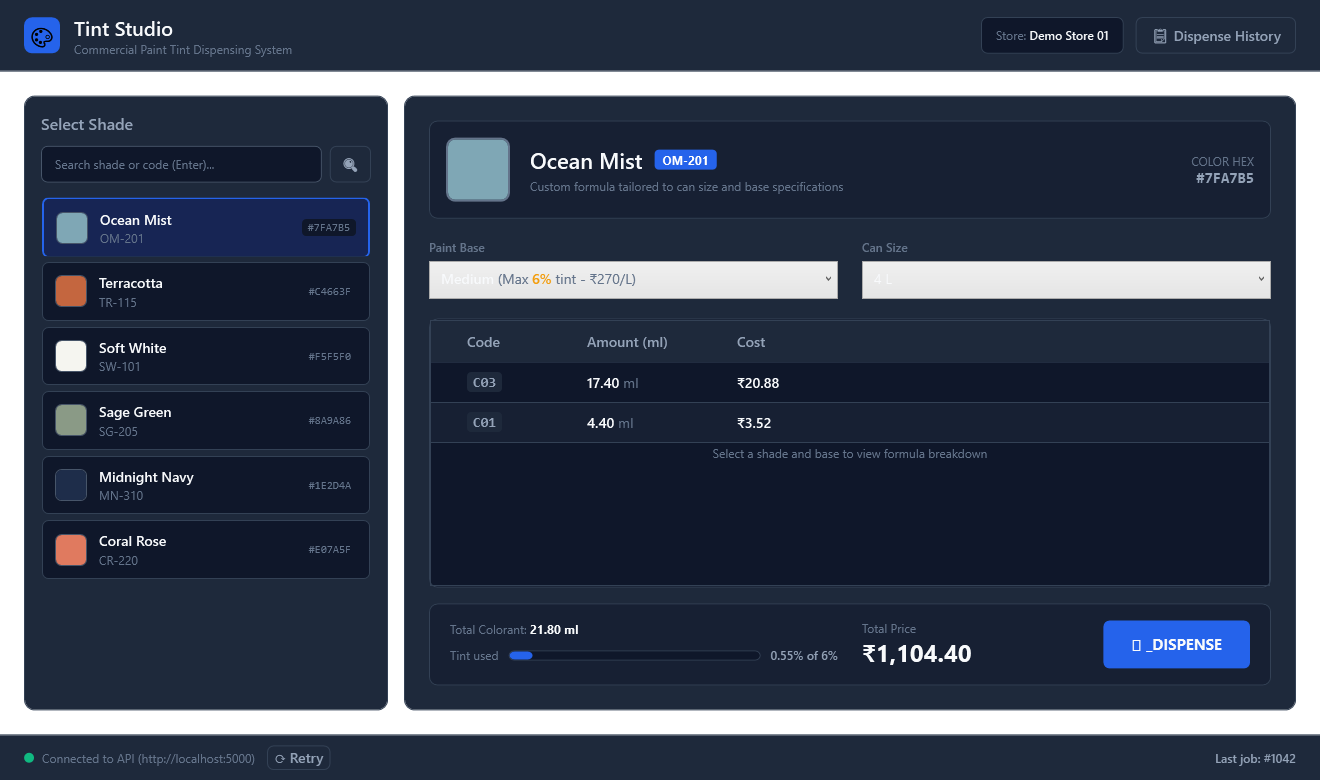
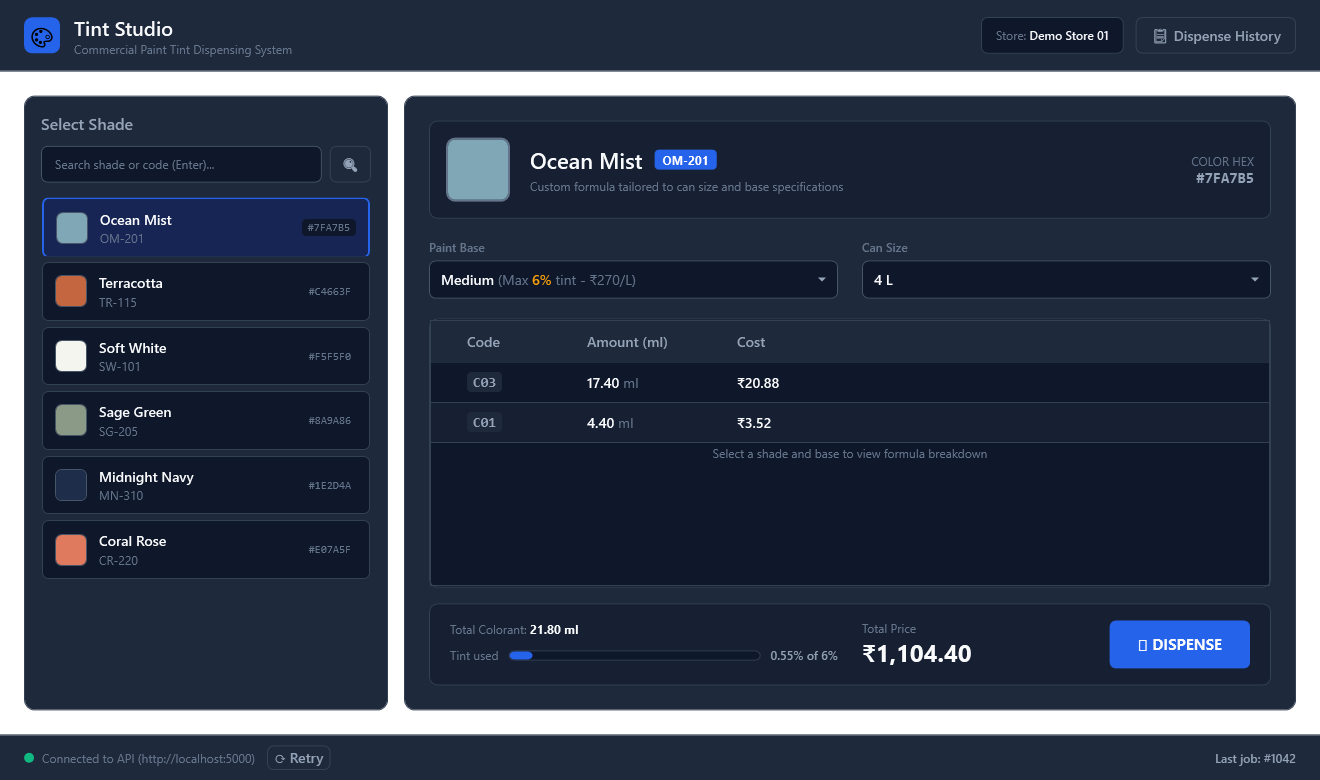
fix(wpf): dark theme ComboBox popup readability and remove leading underscore from DISPENSE button

Changed region(s): [[0.3106, 0.3077, 0.9629, 0.4], [0.8386, 0.8, 0.8697, 0.8615]]

diff --git a/src/PaintTint.Wpf/Styles/Theme.xaml b/src/PaintTint.Wpf/Styles/Theme.xaml
@@ -130,16 +130,145 @@
         </Setter>
     </Style>
 
+    <!-- ComboBox Item Style -->
+    <Style x:Key="ModernComboBoxItemStyle" TargetType="ComboBoxItem">
+        <Setter Property="FontFamily" Value="{StaticResource AppFontFamily}" />
+        <Setter Property="FontSize" Value="{StaticResource FontSizeRegular}" />
+        <Setter Property="Foreground" Value="{StaticResource TextPrimaryBrush}" />
+        <Setter Property="Background" Value="Transparent" />
+        <Setter Property="Padding" Value="12,9" />
+        <Setter Property="Cursor" Value="Hand" />
+        <Setter Property="Template">
+            <Setter.Value>
+                <ControlTemplate TargetType="ComboBoxItem">
+                    <Border x:Name="itemBorder"
+                            Background="{TemplateBinding Background}"
+                            BorderThickness="0"
+                            CornerRadius="4"
+                            Padding="{TemplateBinding Padding}"
+                            Margin="2,1">
+                        <ContentPresenter TextElement.Foreground="{TemplateBinding Foreground}" />
+                    </Border>
+                    <ControlTemplate.Triggers>
+                        <Trigger Property="IsMouseOver" Value="True">
+                            <Setter TargetName="itemBorder" Property="Background" Value="{StaticResource ButtonHoverBackgroundBrush}" />
+                            <Setter Property="Foreground" Value="{StaticResource TextPrimaryBrush}" />
+                        </Trigger>
+                        <Trigger Property="IsSelected" Value="True">
+                            <Setter TargetName="itemBorder" Property="Background" Value="{StaticResource ItemSelectedBackgroundBrush}" />
+                            <Setter Property="Foreground" Value="{StaticResource TextPrimaryBrush}" />
+                        </Trigger>
+                        <Trigger Property="IsEnabled" Value="False">
+                            <Setter Property="Foreground" Value="{StaticResource TextDisabledBrush}" />
+                        </Trigger>
+                    </ControlTemplate.Triggers>
+                </ControlTemplate>
+            </Setter.Value>
+        </Setter>
+    </Style>
+
+    <Style TargetType="ComboBoxItem" BasedOn="{StaticResource ModernComboBoxItemStyle}" />
+
+    <!-- ComboBox Toggle Button Template -->
+    <ControlTemplate x:Key="ComboBoxToggleButtonTemplate" TargetType="ToggleButton">
+        <Border x:Name="border"
+                Background="{TemplateBinding Background}"
+                BorderBrush="{TemplateBinding BorderBrush}"
+                BorderThickness="{TemplateBinding BorderThickness}"
+                CornerRadius="{StaticResource ControlCornerRadius}">
+            <Grid HorizontalAlignment="Right" Width="30">
+                <Path x:Name="arrow"
+                      Data="M 0 0 L 4 4 L 8 0 Z"
+                      Fill="{StaticResource TextSecondaryBrush}"
+                      HorizontalAlignment="Center"
+                      VerticalAlignment="Center"/>
+            </Grid>
+        </Border>
+        <ControlTemplate.Triggers>
+            <Trigger Property="IsMouseOver" Value="True">
+                <Setter TargetName="border" Property="BorderBrush" Value="{StaticResource CardHoverBorderBrush}"/>
+                <Setter TargetName="arrow" Property="Fill" Value="{StaticResource TextPrimaryBrush}"/>
+            </Trigger>
+            <Trigger Property="IsChecked" Value="True">
+                <Setter TargetName="border" Property="BorderBrush" Value="{StaticResource PrimaryAccentBrush}"/>
+                <Setter TargetName="arrow" Property="Fill" Value="{StaticResource PrimaryAccentBrush}"/>
+            </Trigger>
+            <Trigger Property="IsEnabled" Value="False">
+                <Setter TargetName="border" Property="Background" Value="{StaticResource PrimaryAccentDisabledBrush}"/>
+                <Setter TargetName="border" Property="BorderBrush" Value="{StaticResource InputBorderBrush}"/>
+                <Setter TargetName="arrow" Property="Fill" Value="{StaticResource TextDisabledBrush}"/>
+            </Trigger>
+        </ControlTemplate.Triggers>
+    </ControlTemplate>
+
     <!-- ComboBox Modern Style -->
     <Style x:Key="ModernComboBoxStyle" TargetType="ComboBox">
         <Setter Property="FontFamily" Value="{StaticResource AppFontFamily}" />
         <Setter Property="FontSize" Value="{StaticResource FontSizeRegular}" />
         <Setter Property="Foreground" Value="{StaticResource TextPrimaryBrush}" />
-        <Setter Property="Background" Value="{StaticResource CardBackgroundBrush}" />
+        <Setter Property="Background" Value="{StaticResource InputBackgroundBrush}" />
         <Setter Property="BorderBrush" Value="{StaticResource InputBorderBrush}" />
         <Setter Property="BorderThickness" Value="1" />
         <Setter Property="Padding" Value="12,8" />
         <Setter Property="Height" Value="38" />
+        <Setter Property="ItemContainerStyle" Value="{StaticResource ModernComboBoxItemStyle}" />
+        <Setter Property="Template">
+            <Setter.Value>
+                <ControlTemplate TargetType="ComboBox">
+                    <Grid>
+                        <ToggleButton x:Name="ToggleButton"
+                                      Template="{StaticResource ComboBoxToggleButtonTemplate}"
+                                      Focusable="false"
+                                      IsChecked="{Binding IsDropDownOpen, Mode=TwoWay, RelativeSource={RelativeSource TemplatedParent}}"
+                                      ClickMode="Press"
+                                      Background="{TemplateBinding Background}"
+                                      BorderBrush="{TemplateBinding BorderBrush}"
+                                      BorderThickness="{TemplateBinding BorderThickness}"/>
+                        <ContentPresenter x:Name="ContentSite"
+                                          IsHitTestVisible="False"
+                                          Content="{TemplateBinding SelectionBoxItem}"
+                                          ContentTemplate="{TemplateBinding SelectionBoxItemTemplate}"
+                                          ContentTemplateSelector="{TemplateBinding ItemTemplateSelector}"
+                                          Margin="12,0,32,0"
+                                          VerticalAlignment="Center"
+                                          HorizontalAlignment="Left"/>
+                        <Popup x:Name="PART_Popup"
+                               Placement="Bottom"
+                               IsOpen="{TemplateBinding IsDropDownOpen}"
+                               AllowsTransparency="True"
+                               Focusable="False"
+                               PopupAnimation="Slide">
+                            <Border x:Name="DropDownBorder"
+                                    MinWidth="{Binding ActualWidth, RelativeSource={RelativeSource TemplatedParent}}"
+                                    MaxHeight="{TemplateBinding MaxDropDownHeight}"
+                                    Background="{StaticResource CardBackgroundBrush}"
+                                    BorderBrush="{StaticResource CardBorderBrush}"
+                                    BorderThickness="1"
+                                    CornerRadius="6"
+                                    Padding="4"
+                                    SnapsToDevicePixels="True">
+                                <ScrollViewer CanContentScroll="True"
+                                              VerticalScrollBarVisibility="Auto">
+                                    <ItemsPresenter KeyboardNavigation.DirectionalNavigation="Contained"
+                                                    SnapsToDevicePixels="{TemplateBinding SnapsToDevicePixels}"/>
+                                </ScrollViewer>
+                            </Border>
+                        </Popup>
+                    </Grid>
+                    <ControlTemplate.Triggers>
+                        <Trigger Property="HasItems" Value="false">
+                            <Setter TargetName="DropDownBorder" Property="MinHeight" Value="60"/>
+                        </Trigger>
+                        <Trigger Property="IsGrouping" Value="true">
+                            <Setter Property="ScrollViewer.CanContentScroll" Value="false"/>
+                        </Trigger>
+                        <Trigger Property="IsDropDownOpen" Value="true">
+                            <Setter TargetName="ToggleButton" Property="BorderBrush" Value="{StaticResource InputFocusBorderBrush}"/>
+                        </Trigger>
+                    </ControlTemplate.Triggers>
+                </ControlTemplate>
+            </Setter.Value>
+        </Setter>
     </Style>
 
     <!-- Primary Accent Button (Dispense) -->

diff --git a/src/PaintTint.Wpf/MainWindow.xaml b/src/PaintTint.Wpf/MainWindow.xaml
@@ -324,9 +324,14 @@
                             <TextBlock Text="Can Size" Style="{StaticResource CaptionStyle}" FontWeight="SemiBold" Margin="0,0,0,6" />
                             <ComboBox ItemsSource="{Binding CanSizes}"
                                       SelectedItem="{Binding SelectedCanSize}"
-                                      DisplayMemberPath="Display"
                                       Style="{StaticResource ModernComboBoxStyle}"
-                                      TabIndex="5" />
+                                      TabIndex="5">
+                                <ComboBox.ItemTemplate>
+                                    <DataTemplate>
+                                        <TextBlock Text="{Binding Display}" FontWeight="SemiBold" Foreground="{StaticResource TextPrimaryBrush}" />
+                                    </DataTemplate>
+                                </ComboBox.ItemTemplate>
+                            </ComboBox>
                         </StackPanel>
                     </Grid>
 
@@ -497,7 +502,7 @@
                                         Padding="28,12">
                                     <StackPanel Orientation="Horizontal" VerticalAlignment="Center">
                                         <TextBlock Text="🪣 " FontSize="16" />
-                                        <TextBlock Text="_DISPENSE" FontWeight="Bold" FontSize="15" />
+                                        <TextBlock Text="DISPENSE" FontWeight="Bold" FontSize="15" />
                                     </StackPanel>
                                 </Button>
                             </Grid>
